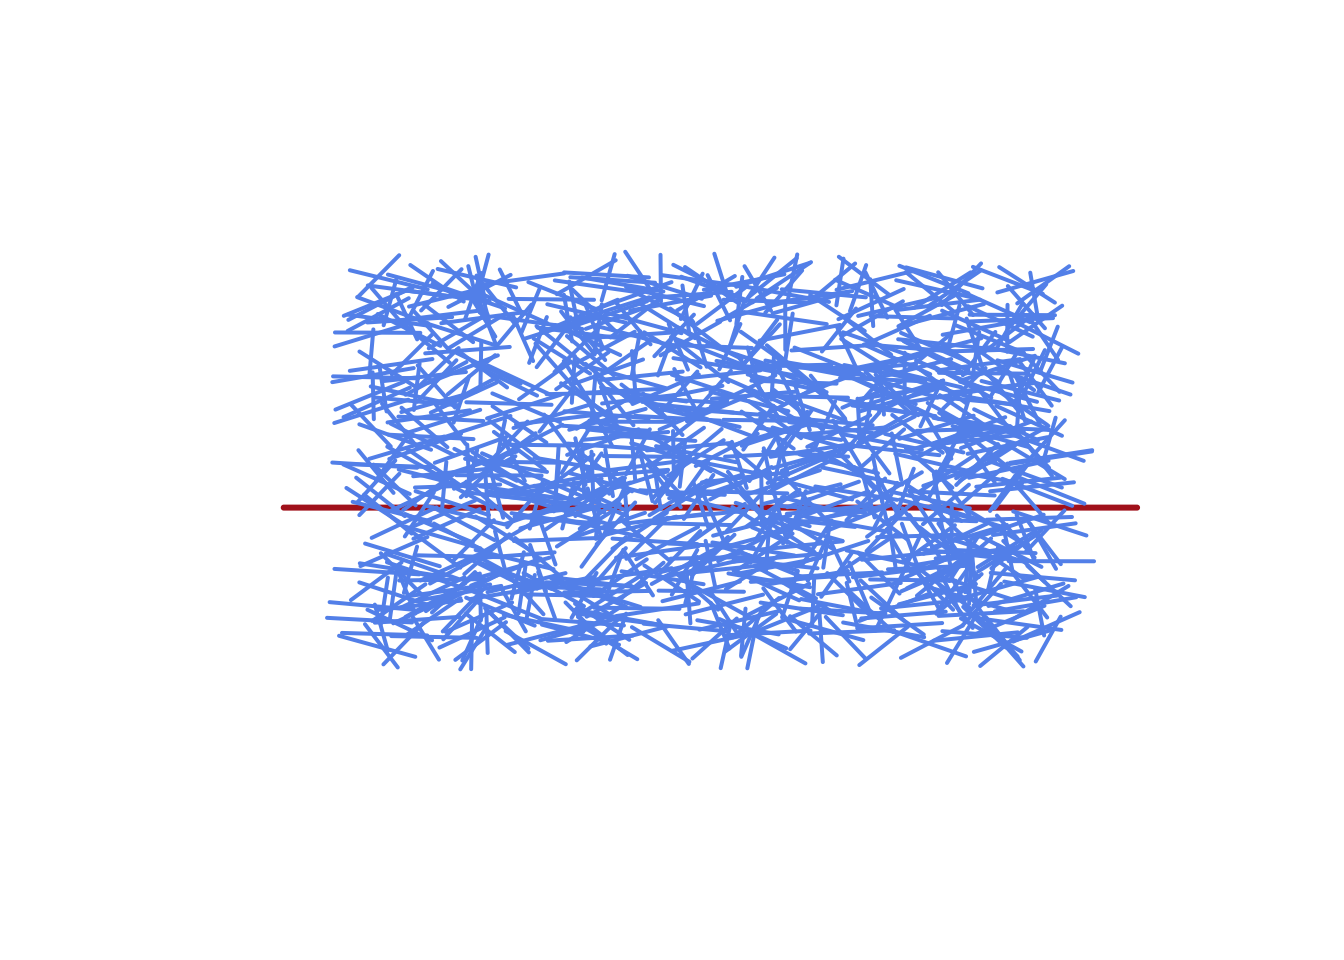
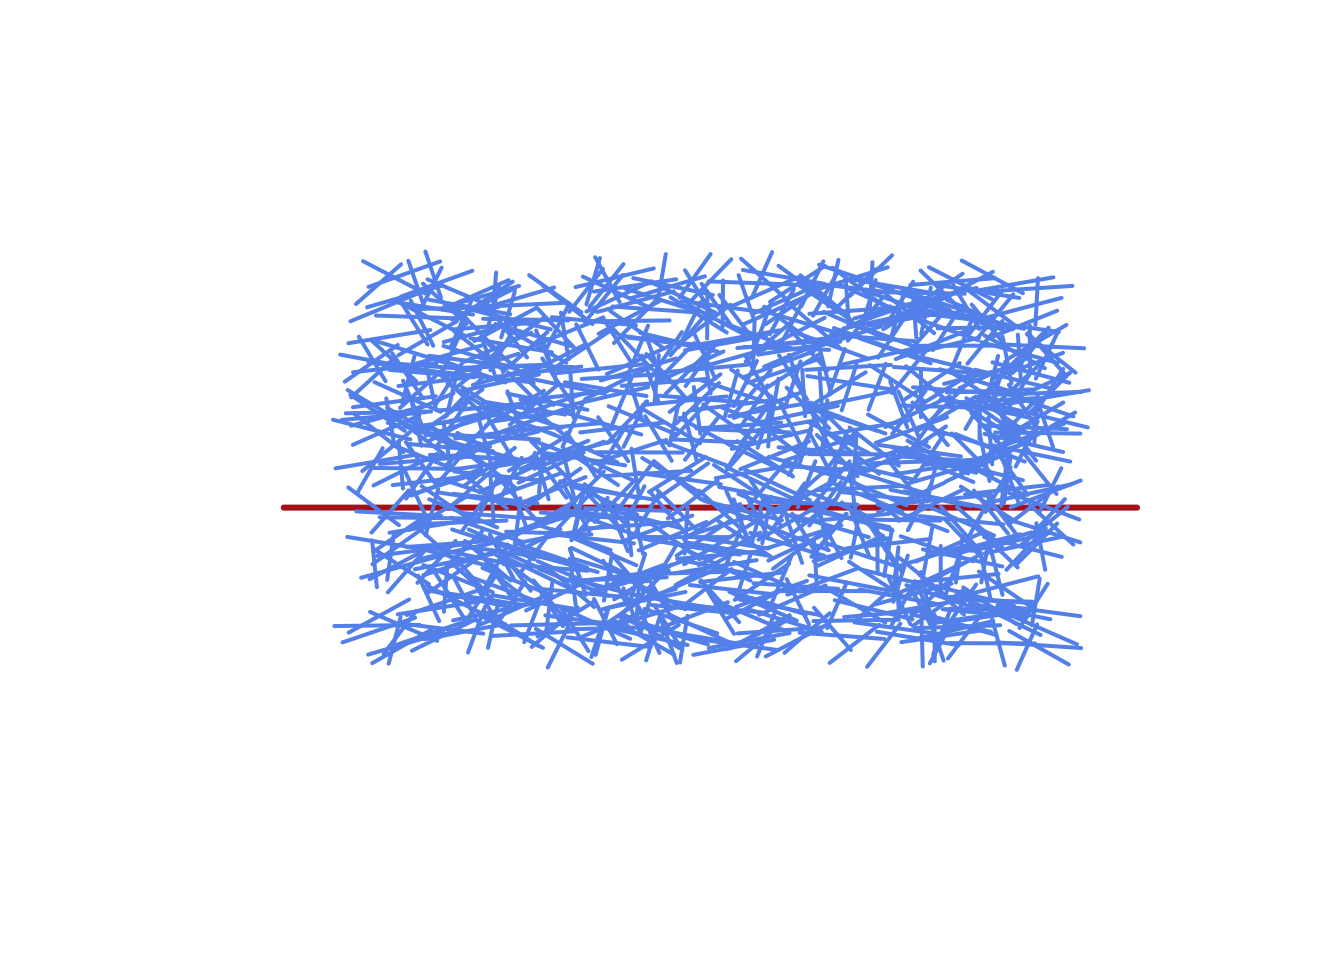
intro text

Changed region(s): [[0.25, 0.25, 0.8125, 0.6875]]

diff --git a/public/2018/06/12/calculate-pi-by-throwing-needles/index.html b/public/2018/06/12/calculate-pi-by-throwing-needles/index.html
@@ -69,7 +69,10 @@
     
 
     <div class="article-content">
-      <pre class="r"><code>library(retistruct)</code></pre>
+      <p>Suppose that you drop a short needle on ruled paper, what is then the probability that the needle comes to lie in a position where it crosses one of the lines? - Georges Buffon, 1777</p>
+<p>When the needle is the right length, the answer is pi!</p>
+<p>Here is a quick example in R of approximating the value of Pi by tossing digital needles onto lines paper.</p>
+<pre class="r"><code>library(retistruct)</code></pre>
 <p>Make a needle</p>
 <pre class="r"><code>match_stick_length &lt;- 20
 number_of_matches_in_a_box &lt;- 10000
@@ -99,9 +102,9 @@ single_match</code></pre>
         cos.angle), 2, 2))
   
 after_rotation</code></pre>
-<pre><code>##              [,1]       [,2]
-## point_1 -9.985515  0.5380346
-## point_2  9.985515 -0.5380346</code></pre>
+<pre><code>##              [,1]     [,2]
+## point_1 -1.364355  9.90649
+## point_2  1.364355 -9.90649</code></pre>
 <p><img src="/post/2018-06-12-calculate-pi-by-throwing-needles_files/figure-html/unnamed-chunk-5-1.png" width="672" /></p>
 <p>Then translate that line onto the table</p>
 <pre class="r"><code>  # Translation
@@ -138,8 +141,8 @@ after_rotation</code></pre>
 
 Throwing_matches()</code></pre>
 <pre><code>##                x        y
-## Point_1 19.60470 17.07055
-## Point_2 12.98547 24.56626</code></pre>
+## Point_1 32.56077 65.73050
+## Point_2 35.25895 75.35962</code></pre>
 <pre class="r"><code>for(i in 1:1000){
 Throwing_matches()
 }</code></pre>
@@ -186,22 +189,22 @@ colnames(crosses) &lt;- c(&quot;x.cross&quot;, &quot;y.cross&quot;, &quot;x.p1&q
                     &quot;y.surface.p2&quot;)
 head(crosses)</code></pre>
 <pre><code>##       x.cross y.cross     x.p1     y.p1     x.p2     y.p2 x.surface.p1
-## [1,] 66.08364      80 65.46719 80.88682 71.17493 72.67575            0
-## [2,] 86.90215      80 87.82216 81.28915 82.01318 73.14938            0
-## [3,] 13.50807      80 23.09351 82.11853 13.32915 79.96046            0
-## [4,] 78.24769      20 69.99890 18.47288 79.83181 20.29327            0
-## [5,] 59.51864      80 58.77765 71.47905 59.64398 81.44145            0
-## [6,] 38.37146      60 37.18274 65.77967 39.19731 55.98469            0
+## [1,] 56.82753      60 57.29754 62.63864 55.54390 52.79360            0
+## [2,] 29.62342      20 21.48110 25.46433 29.78456 19.89185            0
+## [3,] 50.85903      40 48.67552 43.61475 53.84599 35.05518            0
+## [4,] 60.37904      60 55.60521 58.16545 64.93967 61.75262            0
+## [5,] 57.99716      40 60.81689 43.09876 54.08667 35.70253            0
+## [6,] 70.65856      20 69.28777 19.32204 78.25141 23.75522            0
 ##      y.surface.p1 x.surface.p2 y.surface.p2
-## [1,]           80          100           80
-## [2,]           80          100           80
-## [3,]           80          100           80
-## [4,]           20          100           20
-## [5,]           80          100           80
-## [6,]           60          100           60</code></pre>
+## [1,]           60          100           60
+## [2,]           20          100           20
+## [3,]           40          100           40
+## [4,]           60          100           60
+## [5,]           40          100           40
+## [6,]           20          100           20</code></pre>
 <p><img src="/post/2018-06-12-calculate-pi-by-throwing-needles_files/figure-html/unnamed-chunk-19-1.png" width="672" /></p>
 <pre class="r"><code>pi_estimate &lt;- (2* match_stick_length * number_of_matches_in_a_box)/(distance_between_surface_lines * length(crosses[,1]))</code></pre>
-<pre><code>## [1] 3.122073</code></pre>
+<pre><code>## [1] 3.106555</code></pre>
 
     </div>
   </article>

diff --git a/content/post/2018-06-12-calculate-pi-by-throwing-needles.html b/content/post/2018-06-12-calculate-pi-by-throwing-needles.html
@@ -12,6 +12,9 @@ tags:
 
 
 
+<p>Suppose that you drop a short needle on ruled paper, what is then the probability that the needle comes to lie in a position where it crosses one of the lines? - Georges Buffon, 1777</p>
+<p>When the needle is the right length, the answer is pi!</p>
+<p>Here is a quick example in R of approximating the value of Pi by tossing digital needles onto lines paper.</p>
 <pre class="r"><code>library(retistruct)</code></pre>
 <p>Make a needle</p>
 <pre class="r"><code>match_stick_length &lt;- 20
@@ -42,9 +45,9 @@ single_match</code></pre>
         cos.angle), 2, 2))
   
 after_rotation</code></pre>
-<pre><code>##              [,1]       [,2]
-## point_1 -9.985515  0.5380346
-## point_2  9.985515 -0.5380346</code></pre>
+<pre><code>##              [,1]     [,2]
+## point_1 -1.364355  9.90649
+## point_2  1.364355 -9.90649</code></pre>
 <p><img src="/post/2018-06-12-calculate-pi-by-throwing-needles_files/figure-html/unnamed-chunk-5-1.png" width="672" /></p>
 <p>Then translate that line onto the table</p>
 <pre class="r"><code>  # Translation
@@ -81,8 +84,8 @@ after_rotation</code></pre>
 
 Throwing_matches()</code></pre>
 <pre><code>##                x        y
-## Point_1 19.60470 17.07055
-## Point_2 12.98547 24.56626</code></pre>
+## Point_1 32.56077 65.73050
+## Point_2 35.25895 75.35962</code></pre>
 <pre class="r"><code>for(i in 1:1000){
 Throwing_matches()
 }</code></pre>
@@ -129,19 +132,19 @@ colnames(crosses) &lt;- c(&quot;x.cross&quot;, &quot;y.cross&quot;, &quot;x.p1&q
                     &quot;y.surface.p2&quot;)
 head(crosses)</code></pre>
 <pre><code>##       x.cross y.cross     x.p1     y.p1     x.p2     y.p2 x.surface.p1
-## [1,] 66.08364      80 65.46719 80.88682 71.17493 72.67575            0
-## [2,] 86.90215      80 87.82216 81.28915 82.01318 73.14938            0
-## [3,] 13.50807      80 23.09351 82.11853 13.32915 79.96046            0
-## [4,] 78.24769      20 69.99890 18.47288 79.83181 20.29327            0
-## [5,] 59.51864      80 58.77765 71.47905 59.64398 81.44145            0
-## [6,] 38.37146      60 37.18274 65.77967 39.19731 55.98469            0
+## [1,] 56.82753      60 57.29754 62.63864 55.54390 52.79360            0
+## [2,] 29.62342      20 21.48110 25.46433 29.78456 19.89185            0
+## [3,] 50.85903      40 48.67552 43.61475 53.84599 35.05518            0
+## [4,] 60.37904      60 55.60521 58.16545 64.93967 61.75262            0
+## [5,] 57.99716      40 60.81689 43.09876 54.08667 35.70253            0
+## [6,] 70.65856      20 69.28777 19.32204 78.25141 23.75522            0
 ##      y.surface.p1 x.surface.p2 y.surface.p2
-## [1,]           80          100           80
-## [2,]           80          100           80
-## [3,]           80          100           80
-## [4,]           20          100           20
-## [5,]           80          100           80
-## [6,]           60          100           60</code></pre>
+## [1,]           60          100           60
+## [2,]           20          100           20
+## [3,]           40          100           40
+## [4,]           60          100           60
+## [5,]           40          100           40
+## [6,]           20          100           20</code></pre>
 <p><img src="/post/2018-06-12-calculate-pi-by-throwing-needles_files/figure-html/unnamed-chunk-19-1.png" width="672" /></p>
 <pre class="r"><code>pi_estimate &lt;- (2* match_stick_length * number_of_matches_in_a_box)/(distance_between_surface_lines * length(crosses[,1]))</code></pre>
-<pre><code>## [1] 3.122073</code></pre>
+<pre><code>## [1] 3.106555</code></pre>
